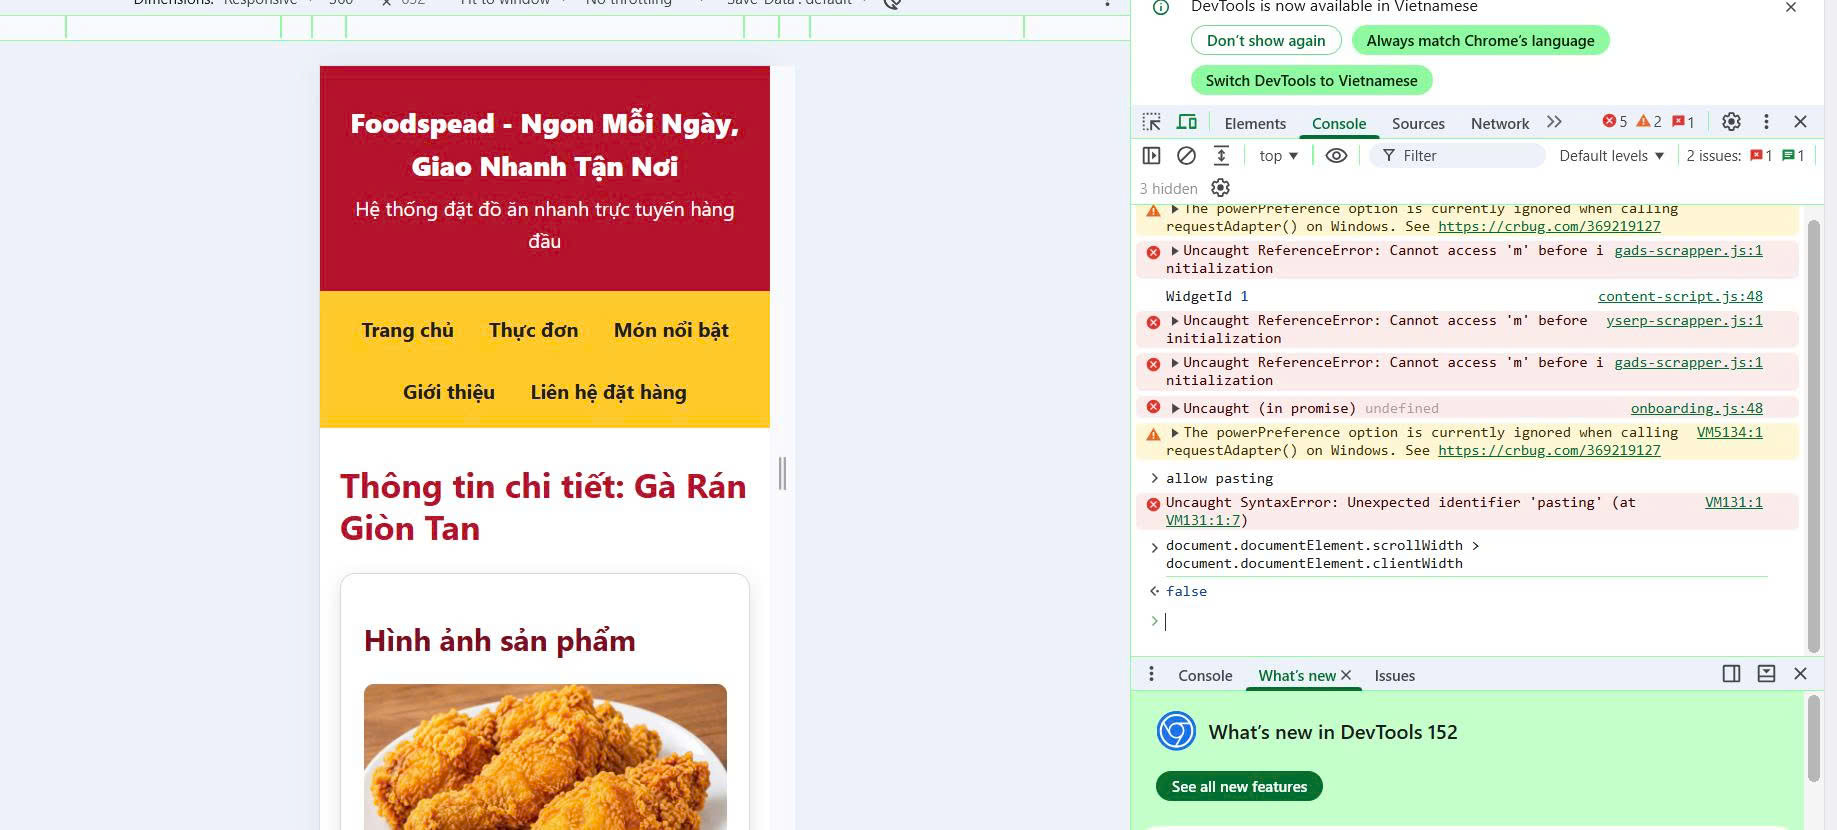
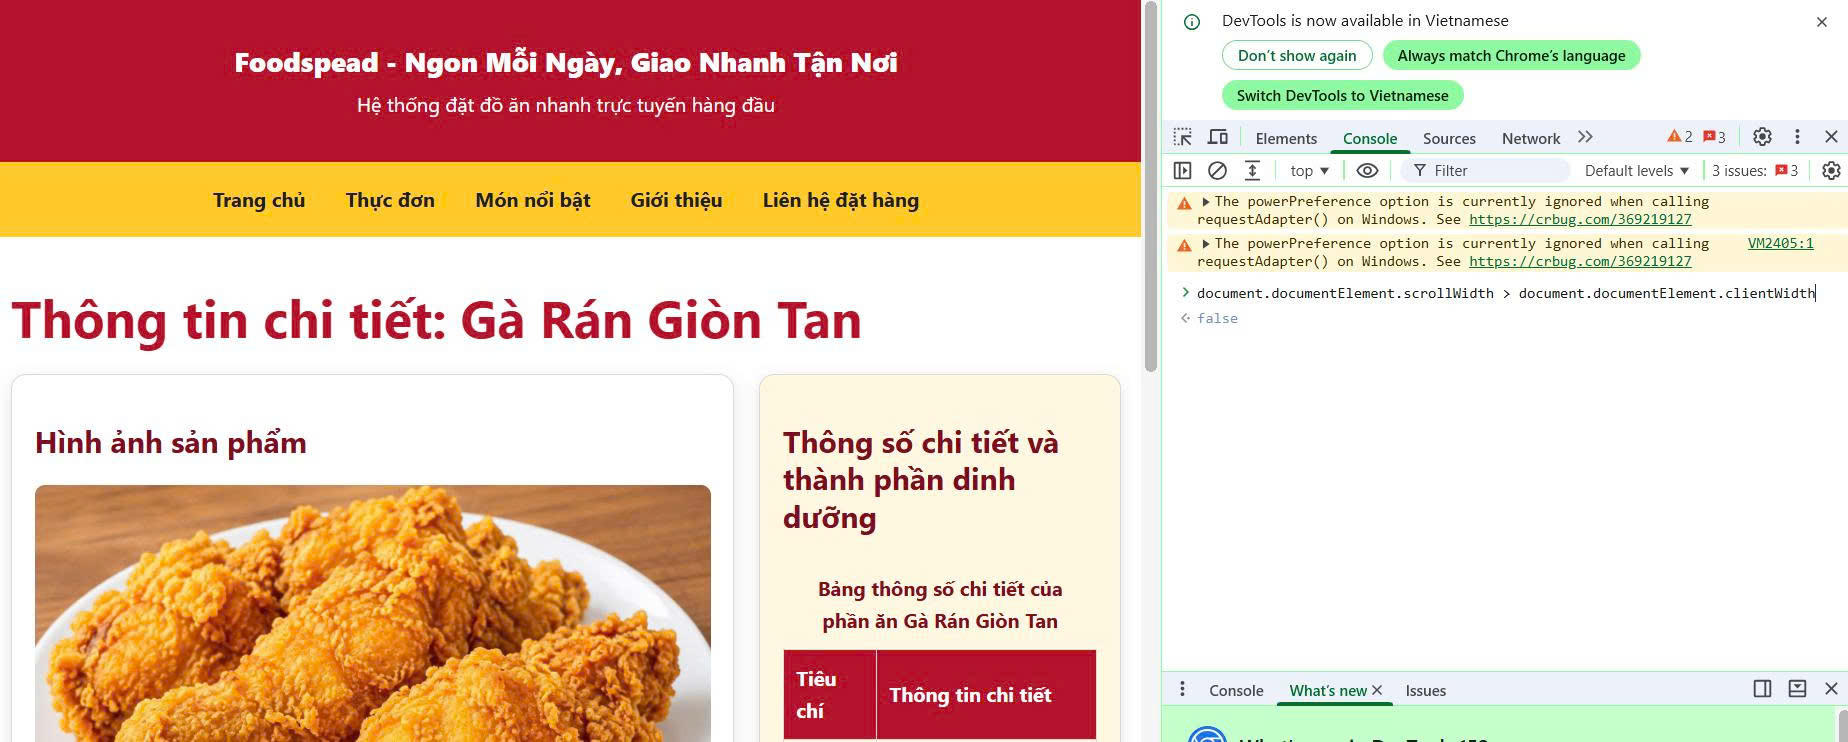
thêm phan chi tiết và ktra

diff --git a/chi-tiet.html b/chi-tiet.html
@@ -4,10 +4,52 @@
 <head>
     <meta charset="UTF-8">
     <meta name="viewport" content="width=device-width, initial-scale=1.0">
+    
+    <!-- Meta SEO cơ bản -->
+    <title>Chi tiết món Gà Rán Giòn Tan | Foodspead</title>
     <meta name="description"
         content="Thông tin chi tiết về món Gà Rán Giòn Tan - Giá bán, thành phần dinh dưỡng và video hướng dẫn thưởng thức.">
-    <title>Chi tiết món Gà Rán Giòn Tan | Foodspead</title>
+    <link rel="canonical" href="https://foodspead.vn/chi-tiet.html">
+
+    <!-- Open Graph / Facebook SEO -->
+    <meta property="og:type" content="article">
+    <meta property="og:title" content="Chi tiết món Gà Rán Giòn Tan | Foodspead">
+    <meta property="og:description"
+        content="Thông tin chi tiết về món Gà Rán Giòn Tan - Giá bán, thành phần dinh dưỡng và video hướng dẫn thưởng thức.">
+    <meta property="og:image" content="images/ga-ran-gion-chi-tiet.jpg">
+    <meta property="og:url" content="https://foodspead.vn/chi-tiet.html">
+    <meta property="og:site_name" content="Foodspead">
+
+    <!-- Twitter Card SEO -->
+    <meta name="twitter:card" content="summary_large_image">
+    <meta name="twitter:title" content="Chi tiết món Gà Rán Giòn Tan | Foodspead">
+    <meta name="twitter:description"
+        content="Thông tin chi tiết về món Gà Rán Giòn Tan - Giá bán, thành phần dinh dưỡng và video hướng dẫn thưởng thức.">
+    <meta name="twitter:image" content="images/ga-ran-gion-chi-tiet.jpg">
+
+    <!-- Tối ưu hiệu năng tải trang (Performance) -->
+    <link rel="preconnect" href="https://www.youtube.com">
     <link rel="stylesheet" href="css/style.css">
+
+    <!-- Dữ liệu cấu trúc Schema.org (Google Rich Snippet cho SEO món ăn / sản phẩm) -->
+    <script type="application/ld+json">
+    {
+      "@context": "https://schema.org/",
+      "@type": "Product",
+      "name": "Gà Rán Giòn Tan",
+      "image": ["images/ga-ran-gion-chi-tiet.jpg"],
+      "description": "Thông tin chi tiết về món Gà Rán Giòn Tan - Giá bán, thành phần dinh dưỡng và video hướng dẫn thưởng thức.",
+      "brand": {
+        "@type": "Brand",
+        "name": "Foodspead"
+      },
+      "offers": {
+        "@type": "Offer",
+        "priceCurrency": "VND",
+        "availability": "https://schema.org/InStock"
+      }
+    }
+    </script>
 </head>
 
 <body class="trang trang--chi-tiet">
@@ -38,13 +80,15 @@
                 <h2>Hình ảnh sản phẩm</h2>
 
                 <figure>
+                    <!-- Bỏ loading="lazy" cho ảnh chính xuất hiện đầu tiên (LCP) và thêm fetchpriority="high" -->
                     <img
                         src="images/ga-ran-gion-chi-tiet.jpg"
                         alt="Mẹt gà rán giòn tan kèm sốt chấm và khoai tây chiên"
                         class="chi-tiet__anh"
                         width="450"
                         height="300"
-                        loading="lazy">
+                        fetchpriority="high"
+                        decoding="async">
 
                     <figcaption>
                         Hình 1: Món Gà Rán Giòn Tan đặc trưng của hệ thống cửa hàng Foodspead
@@ -104,12 +148,15 @@
                     Video quy trình chế biến đảm bảo an toàn thực phẩm
                 </h2>
 
+                <!-- Thêm loading="lazy" và quyền tương tác cho iframe để tránh làm chậm trang -->
                 <iframe
                     class="chi-tiet__video"
                     src="https://www.youtube.com/embed/C4Rkw7RTO-I"
                     title="Video giới thiệu quy trình chế biến món ăn tại Foodspead"
                     width="560"
                     height="315"
+                    loading="lazy"
+                    allow="accelerometer; autoplay; clipboard-write; encrypted-media; gyroscope; picture-in-picture"
                     allowfullscreen>
                 </iframe>
             </section>
